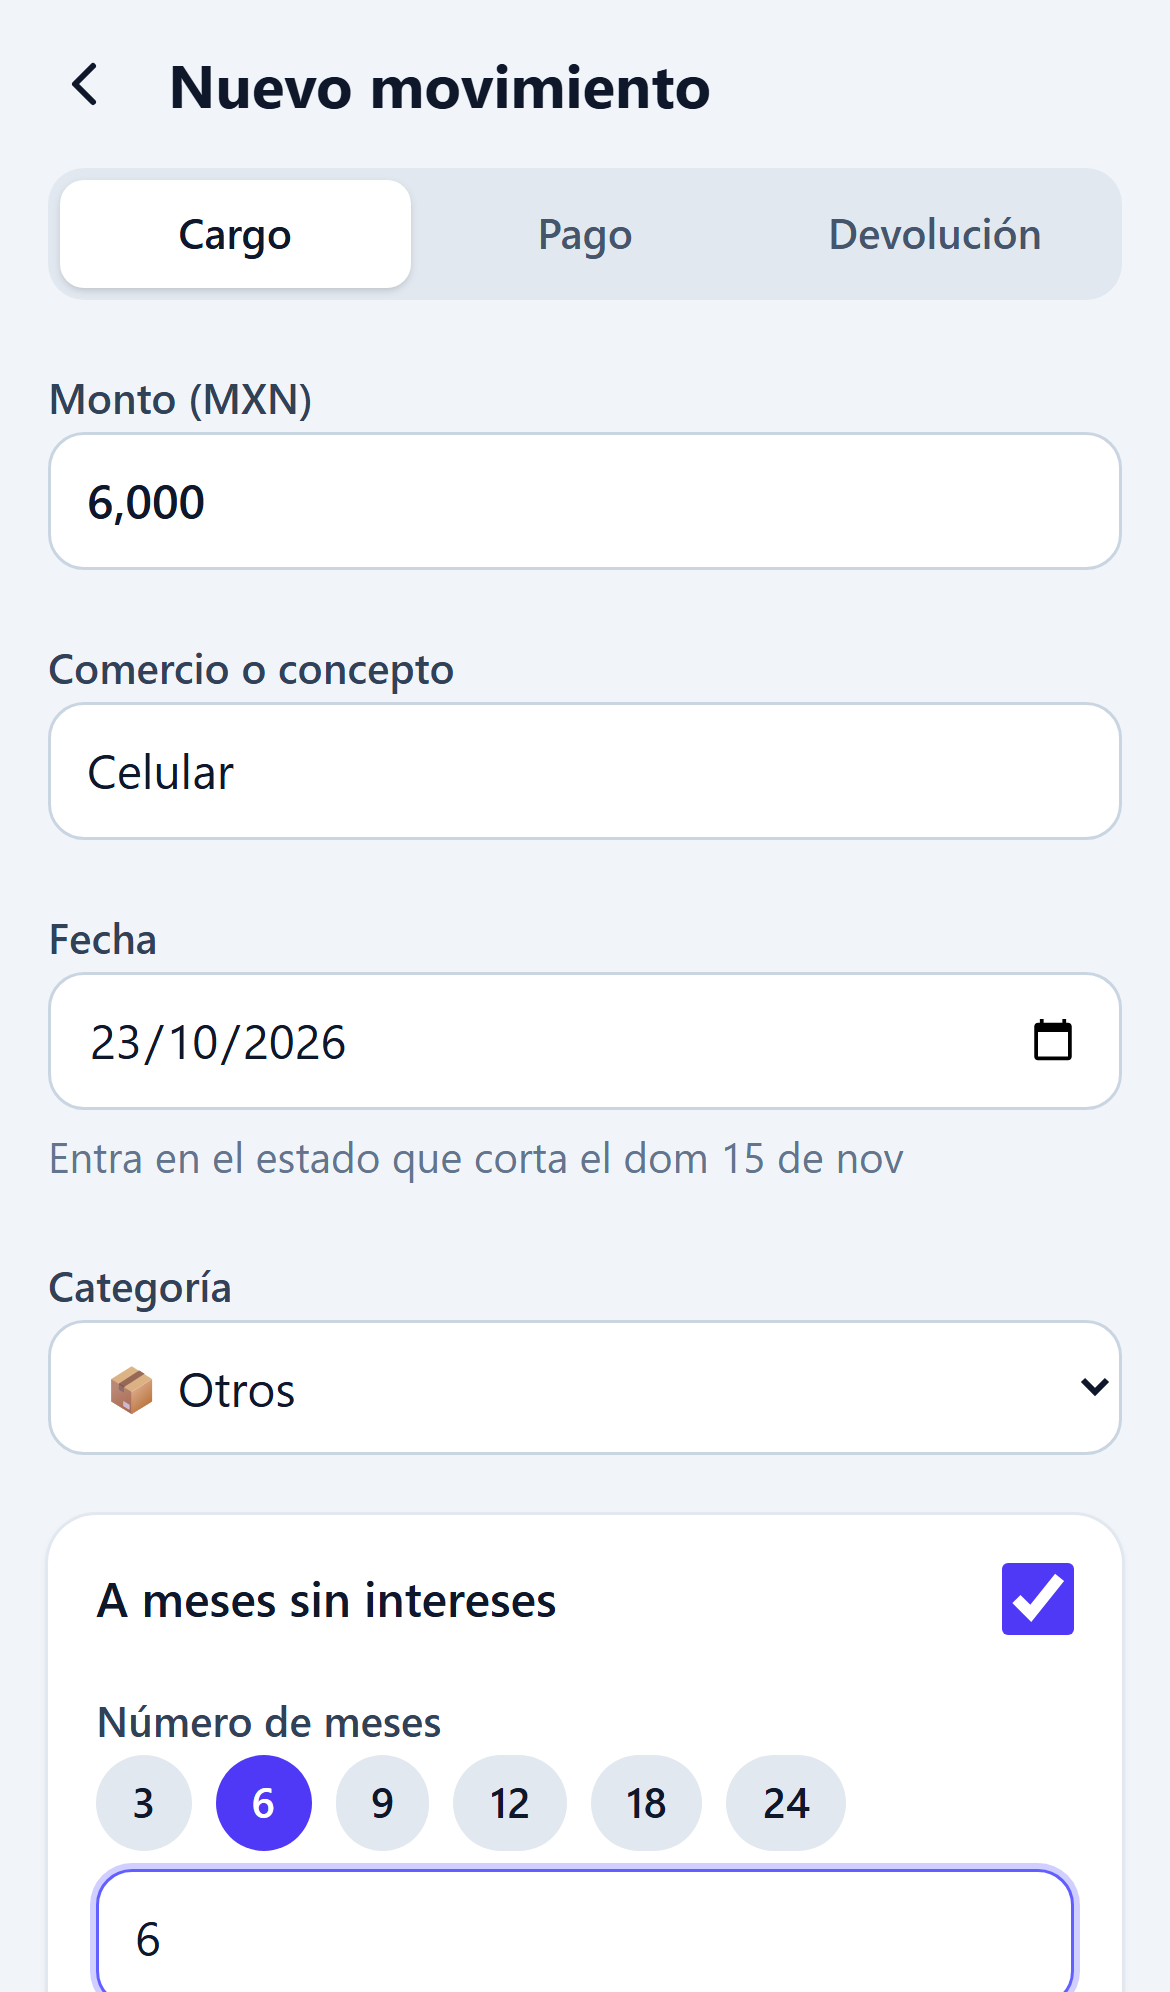
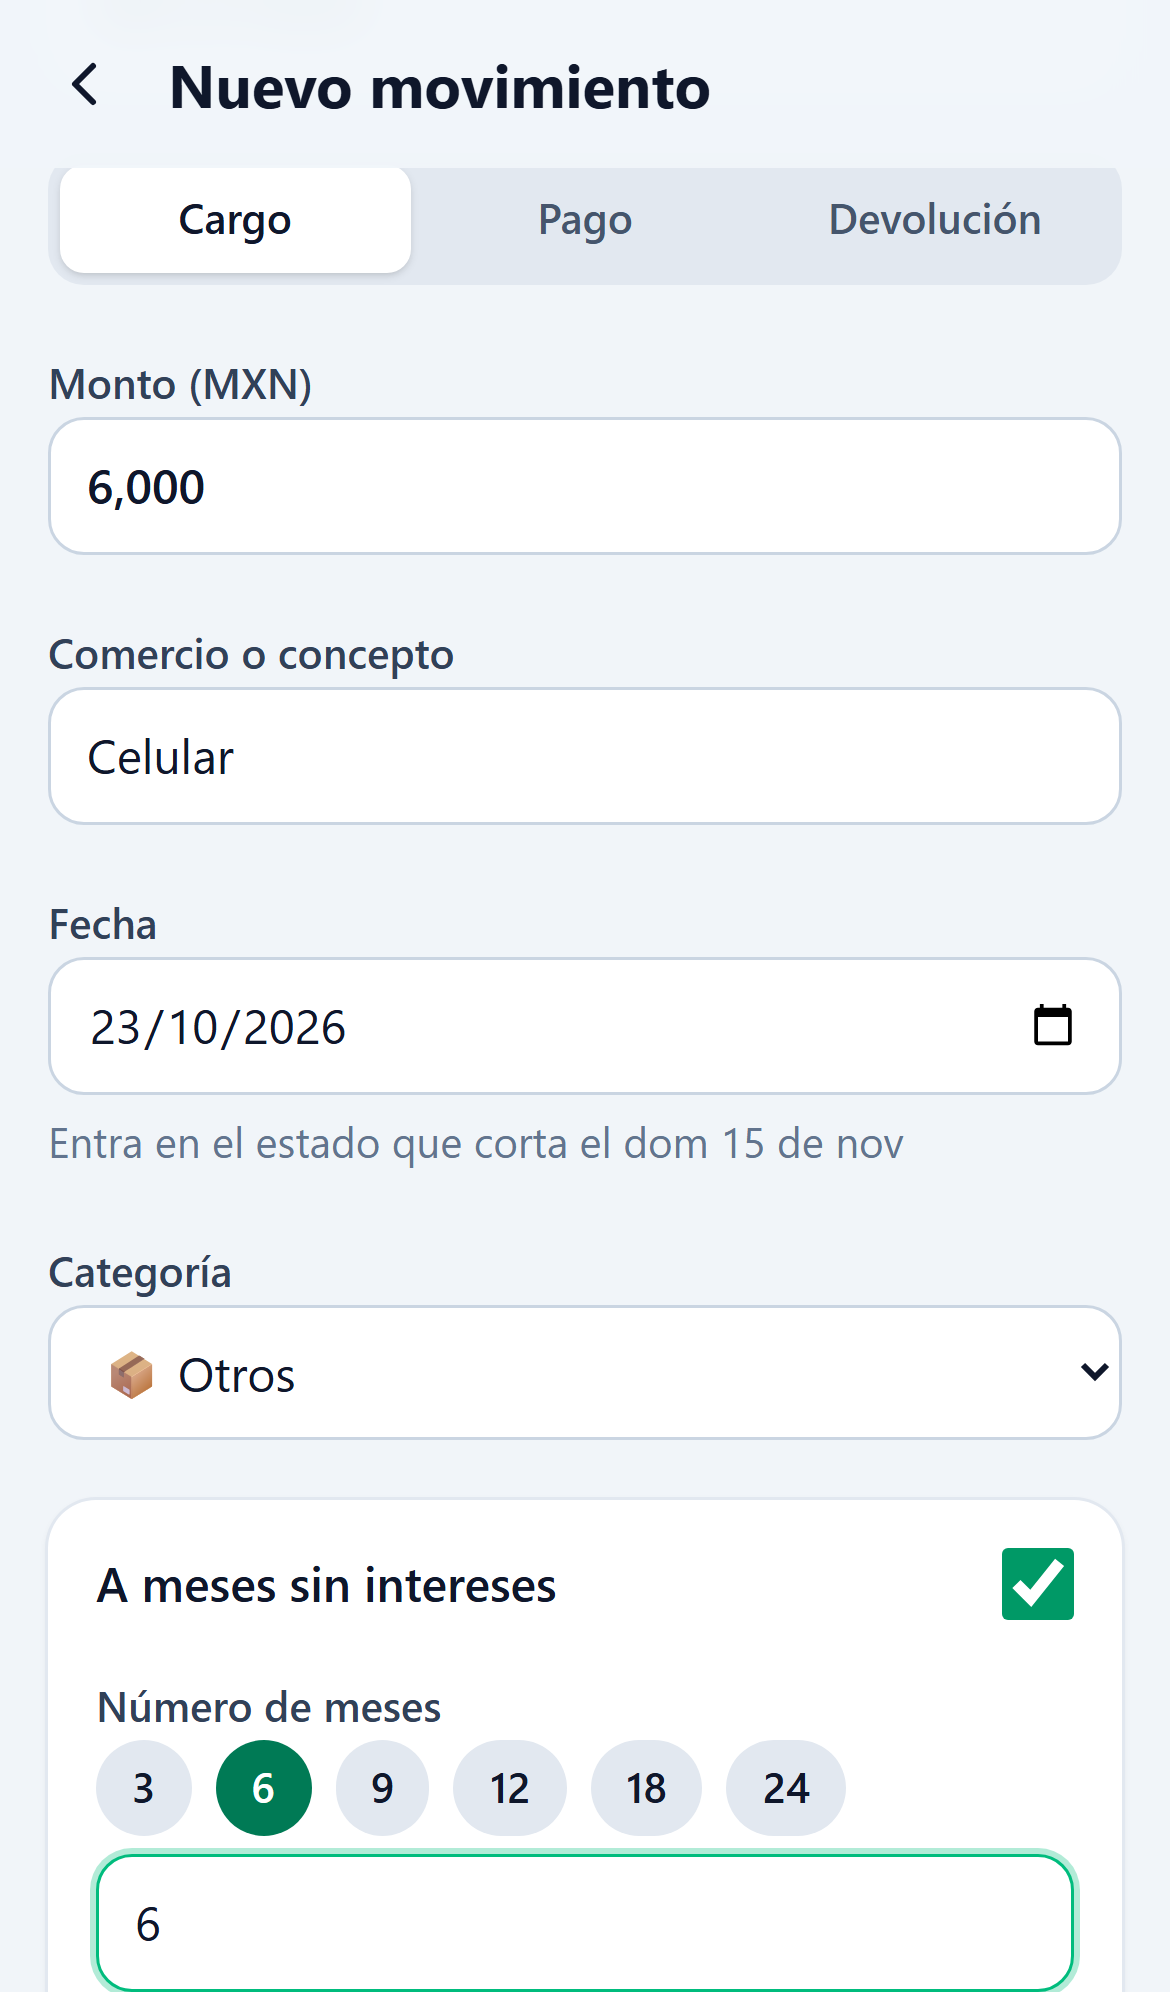
style: tema verde con una paleta de marca configurable
- Paleta brand en index.css (emerald) usada en lugar de indigo
- Tonos ajustados para contraste AA en botones y gráficas
- Íconos de la app y de accesos directos regenerados en verde
- Capturas del README actualizadas

diff --git a/src/pages/TransactionFormPage.tsx b/src/pages/TransactionFormPage.tsx
@@ -220,7 +220,7 @@ function TransactionForm({ existing }: { existing?: Transaction }) {
                 className={`flex w-full items-center justify-center gap-2 rounded-xl px-4 py-3 font-semibold ${
                   speech.listening
                     ? 'animate-pulse bg-red-600 text-white'
-                    : 'bg-indigo-50 text-indigo-700 active:bg-indigo-100 dark:bg-indigo-950 dark:text-indigo-300'
+                    : 'bg-brand-50 text-brand-700 active:bg-brand-100 dark:bg-brand-950 dark:text-brand-300'
                 }`}
                 data-testid="voice-button"
               >
@@ -352,7 +352,7 @@ function TransactionForm({ existing }: { existing?: Transaction }) {
                 type="checkbox"
                 checked={isInstallments}
                 onChange={(e) => setIsInstallments(e.target.checked)}
-                className="size-6 accent-indigo-600"
+                className="size-6 accent-brand-600"
                 data-testid="installments-toggle"
               />
             </label>
@@ -371,7 +371,7 @@ function TransactionForm({ existing }: { existing?: Transaction }) {
                       onClick={() => setMonthsText(String(m))}
                       className={`rounded-full px-3 py-1.5 text-sm font-medium ${
                         months === m
-                          ? 'bg-indigo-600 text-white'
+                          ? 'bg-brand-700 text-white'
                           : 'bg-slate-200 dark:bg-slate-800'
                       }`}
                     >

diff --git a/src/components/styles.ts b/src/components/styles.ts
@@ -8,14 +8,14 @@ export const ui = {
   list: 'divide-y divide-slate-200 overflow-hidden rounded-2xl bg-white shadow-sm ring-1 ring-slate-200 dark:divide-slate-800 dark:bg-slate-900 dark:ring-slate-800',
   // text-base (16px) evita que iOS haga zoom al enfocar el campo.
   input:
-    'w-full rounded-xl border border-slate-300 bg-white px-3 py-2.5 text-base outline-none focus:border-indigo-500 focus:ring-2 focus:ring-indigo-500/30 dark:border-slate-700 dark:bg-slate-900',
+    'w-full rounded-xl border border-slate-300 bg-white px-3 py-2.5 text-base outline-none focus:border-brand-500 focus:ring-2 focus:ring-brand-500/30 dark:border-slate-700 dark:bg-slate-900',
   inputError: 'border-red-500 focus:border-red-500 focus:ring-red-500/30',
   label: 'text-sm font-medium text-slate-700 dark:text-slate-300',
   muted: 'text-sm text-slate-500 dark:text-slate-400',
   sectionTitle:
     'px-1 text-xs font-semibold tracking-wide text-slate-500 uppercase dark:text-slate-400',
   buttonPrimary:
-    'block w-full rounded-xl bg-indigo-600 px-4 py-3 text-center font-semibold text-white active:bg-indigo-700 disabled:opacity-50',
+    'block w-full rounded-xl bg-brand-700 px-4 py-3 text-center font-semibold text-white active:bg-brand-800 disabled:opacity-50',
   buttonSecondary:
     'block w-full rounded-xl bg-slate-200 px-4 py-3 text-center font-semibold text-slate-900 active:bg-slate-300 dark:bg-slate-800 dark:text-slate-100 dark:active:bg-slate-700',
   buttonDanger:

diff --git a/src/components/TabLayout.tsx b/src/components/TabLayout.tsx
@@ -33,7 +33,7 @@ export function TabLayout() {
 
       <Link
         to="/movimientos/nuevo"
-        className="fixed right-4 bottom-[calc(5rem+env(safe-area-inset-bottom))] flex size-14 items-center justify-center rounded-full bg-indigo-600 text-white shadow-lg active:bg-indigo-700"
+        className="fixed right-4 bottom-[calc(5rem+env(safe-area-inset-bottom))] flex size-14 items-center justify-center rounded-full bg-brand-700 text-white shadow-lg active:bg-brand-800"
         aria-label="Agregar movimiento"
         data-testid="add-transaction"
       >
@@ -51,7 +51,7 @@ export function TabLayout() {
                 className={({ isActive }) =>
                   `flex flex-col items-center gap-0.5 py-2 text-xs font-medium ${
                     isActive
-                      ? 'text-indigo-600 dark:text-indigo-400'
+                      ? 'text-brand-700 dark:text-brand-400'
                       : 'text-slate-500 dark:text-slate-400'
                   }`
                 }

diff --git a/src/index.css b/src/index.css
@@ -1,5 +1,25 @@
 @import 'tailwindcss';
 
+/*
+ * Color de la app. Los componentes usan `brand-*` (bg-brand-700, text-brand-400…),
+ * así para cambiar de color basta con apuntar estas variables a otra paleta de
+ * Tailwind. Si se cambia, actualizar también theme_color en vite.config.ts y los
+ * íconos en tools/generate_icons.py.
+ */
+@theme {
+  --color-brand-50: var(--color-emerald-50);
+  --color-brand-100: var(--color-emerald-100);
+  --color-brand-200: var(--color-emerald-200);
+  --color-brand-300: var(--color-emerald-300);
+  --color-brand-400: var(--color-emerald-400);
+  --color-brand-500: var(--color-emerald-500);
+  --color-brand-600: var(--color-emerald-600);
+  --color-brand-700: var(--color-emerald-700);
+  --color-brand-800: var(--color-emerald-800);
+  --color-brand-900: var(--color-emerald-900);
+  --color-brand-950: var(--color-emerald-950);
+}
+
 @layer base {
   :root {
     /* Los controles nativos (fecha, select, checkbox) siguen el modo claro/oscuro. */

diff --git a/src/pages/InsightsPage.tsx b/src/pages/InsightsPage.tsx
@@ -132,7 +132,7 @@ function HistoryChart({ history, selectedIndex, onSelect }: HistoryChartProps) {
               )}
               <span
                 className={`block w-6 rounded-t ${
-                  selected ? 'bg-indigo-500' : 'bg-slate-300 dark:bg-slate-600'
+                  selected ? 'bg-brand-600' : 'bg-slate-300 dark:bg-slate-600'
                 }`}
                 style={{ height: `${height * 100}%` }}
               />
@@ -206,7 +206,7 @@ function CategoryBreakdown({ spending, categories }: CategoryBreakdownProps) {
             </div>
             <span className="block h-2" aria-hidden="true">
               <span
-                className="block h-full min-w-1 rounded-r bg-indigo-500"
+                className="block h-full min-w-1 rounded-r bg-brand-600"
                 style={{ width: `${(cents / max) * 100}%` }}
               />
             </span>

diff --git a/src/pages/TransactionsPage.tsx b/src/pages/TransactionsPage.tsx
@@ -148,7 +148,7 @@ export function TransactionsPage() {
 
         {isFiltering && (
           <div
-            className="flex items-center justify-between gap-2 rounded-xl bg-indigo-50 px-3 py-2 text-sm dark:bg-indigo-950/50"
+            className="flex items-center justify-between gap-2 rounded-xl bg-brand-50 px-3 py-2 text-sm dark:bg-brand-950/50"
             data-testid="filter-summary"
           >
             <span>
@@ -167,7 +167,7 @@ export function TransactionsPage() {
             <button
               type="button"
               onClick={() => updateParams({ q: '', categoria: '' })}
-              className="font-semibold text-indigo-700 dark:text-indigo-300"
+              className="font-semibold text-brand-700 dark:text-brand-300"
               data-testid="clear-filters"
             >
               Limpiar

diff --git a/src/pages/InstallmentsPage.tsx b/src/pages/InstallmentsPage.tsx
@@ -148,7 +148,7 @@ function Bar({ value, max }: { value: number; max: number }) {
     <span className="block h-3" aria-hidden="true">
       {value > 0 && (
         <span
-          className="block h-full min-w-1 rounded-r bg-indigo-500"
+          className="block h-full min-w-1 rounded-r bg-brand-600"
           style={{ width: `${percent}%` }}
         />
       )}
@@ -199,7 +199,7 @@ function PlanRow({
             aria-valuenow={billedCount}
           >
             <span
-              className="block h-full rounded-full bg-indigo-500"
+              className="block h-full rounded-full bg-brand-600"
               style={{ width: `${(billedCount / months) * 100}%` }}
             />
           </span>

diff --git a/src/pages/SettingsPage.tsx b/src/pages/SettingsPage.tsx
@@ -44,7 +44,7 @@ function CardsSection() {
                 </span>
               </span>
               {card.id === data.settings.activeCardId && (
-                <span className="rounded-full bg-indigo-100 px-2.5 py-0.5 text-xs font-semibold text-indigo-800 dark:bg-indigo-900/50 dark:text-indigo-300">
+                <span className="rounded-full bg-brand-100 px-2.5 py-0.5 text-xs font-semibold text-brand-800 dark:bg-brand-900/50 dark:text-brand-300">
                   Seleccionada
                 </span>
               )}

diff --git a/src/pages/CategoryFormPage.tsx b/src/pages/CategoryFormPage.tsx
@@ -177,7 +177,7 @@ function CategoryForm({ existing }: { existing?: Category }) {
             aria-pressed={icon === option}
             className={`flex aspect-square items-center justify-center rounded-xl text-2xl ${
               icon === option
-                ? 'bg-indigo-100 ring-2 ring-indigo-500 dark:bg-indigo-950'
+                ? 'bg-brand-100 ring-2 ring-brand-500 dark:bg-brand-950'
                 : 'active:bg-slate-200 dark:active:bg-slate-800'
             }`}
             data-testid="icon-option"

diff --git a/vite.config.ts b/vite.config.ts
@@ -27,7 +27,7 @@ export default defineConfig({
         display: 'standalone',
         orientation: 'portrait',
         background_color: '#f1f5f9',
-        theme_color: '#4f46e5',
+        theme_color: '#047857', // brand-700
         icons: [
           { src: 'pwa-192x192.png', sizes: '192x192', type: 'image/png' },
           { src: 'pwa-512x512.png', sizes: '512x512', type: 'image/png' },

diff --git a/src/components/UpdatePrompt.tsx b/src/components/UpdatePrompt.tsx
@@ -48,7 +48,7 @@ export function UpdatePrompt() {
         <button
           type="button"
           onClick={() => void updateServiceWorker()}
-          className="rounded-lg bg-indigo-500 px-3 py-1.5 font-semibold"
+          className="rounded-lg bg-brand-600 px-3 py-1.5 font-semibold"
           data-testid="pwa-update"
         >
           Actualizar

diff --git a/tools/generate_icons.py b/tools/generate_icons.py
@@ -13,13 +13,14 @@ from playwright.sync_api import sync_playwright
 
 PUBLIC_DIR = Path(__file__).resolve().parent.parent / "public"
 
-INDIGO = "#4f46e5"
-INDIGO_LIGHT = "#c7d2fe"
-EMERALD = "#10b981"
+# Mismos tonos que la paleta `brand` de la app (emerald de Tailwind).
+BRAND = "#059669"  # emerald-600
+BRAND_LIGHT = "#a7f3d0"  # emerald-200
+BRAND_DARK = "#065f46"  # emerald-800
 
 
 def icon_svg(rounded: bool) -> str:
-    """Tarjeta de crédito con una palomita verde ("pagado a tiempo").
+    """Tarjeta de crédito con una palomita ("pagado a tiempo") sobre fondo verde.
 
     - rounded=True: esquinas redondeadas y fondo transparente (favicon, ícono normal).
     - rounded=False: fondo cuadrado completo, para íconos "maskable" (Android recorta
@@ -28,11 +29,11 @@ def icon_svg(rounded: bool) -> str:
     """
     corner = 112 if rounded else 0
     return f"""<svg xmlns="http://www.w3.org/2000/svg" viewBox="0 0 512 512">
-  <rect width="512" height="512" rx="{corner}" fill="{INDIGO}"/>
+  <rect width="512" height="512" rx="{corner}" fill="{BRAND}"/>
   <rect x="96" y="148" width="320" height="216" rx="32" fill="#ffffff"/>
-  <rect x="96" y="196" width="320" height="44" fill="{INDIGO_LIGHT}"/>
-  <rect x="132" y="292" width="96" height="24" rx="12" fill="{INDIGO}" opacity="0.35"/>
-  <circle cx="352" cy="304" r="36" fill="{EMERALD}"/>
+  <rect x="96" y="196" width="320" height="44" fill="{BRAND_LIGHT}"/>
+  <rect x="132" y="292" width="96" height="24" rx="12" fill="{BRAND}" opacity="0.35"/>
+  <circle cx="352" cy="304" r="36" fill="{BRAND_DARK}"/>
   <path d="M335 304l12 12 22-24" fill="none" stroke="#ffffff" stroke-width="10"
         stroke-linecap="round" stroke-linejoin="round"/>
 </svg>
@@ -54,7 +55,7 @@ def shortcut_svg(symbol: str) -> str:
         stroke-width="40" stroke-linecap="round"/>""",
     }
     return f"""<svg xmlns="http://www.w3.org/2000/svg" viewBox="0 0 512 512">
-  <rect width="512" height="512" fill="{INDIGO}"/>
+  <rect width="512" height="512" fill="{BRAND}"/>
   {symbols[symbol]}
 </svg>
 """
